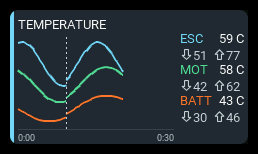
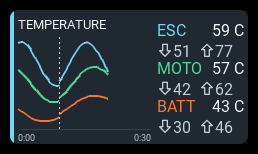
Adapt chart legend typography to widget size
Fit metric names, recorded values and extrema to the actual pixel dimensions, metric count and text widths, preserving a readable minimum and plot space. Recalculate on resize without replacing font callbacks or clearing history, and retain supported min/max markers at larger native font sizes.

diff --git a/docs/panels/chart.md b/docs/panels/chart.md
@@ -63,12 +63,20 @@ during compaction, but the service never joins across a known gap.
 
 All series occupy **one plot**, not separate mini-charts. Use multiple panels for
 separate charts. Supported spans are 2x1, 3x1, 4x1, 2x2, 3x2, 4x2, 3x3, 4x3,
-and 4x4; additional height goes to the plot rather than stretching the legend.
+and 4x4; additional height enlarges the plot and can allow larger legend text.
 The panel respects the App menu exclusion area.
-Metric names, values, and extrema use the same larger legend font at every span.
-When the panel is too short to fit all extrema rows (for example, three sources
-in a 2x1 panel), those rows are hidden rather than shrinking the text or
-overlapping the recorded values. Use a taller panel to show all readouts.
+Metric names, values, and extrema scale together with the widget's actual pixel
+dimensions, number of metrics, and readout widths. Larger fonts use at most half
+the available content width for the legend, leaving room for the plot. Text never
+shrinks below the small readable font; longer readouts can reduce the chosen size,
+and resizing recalculates it.
+The larger native fonts omit the arrow glyphs, so their min/max indicators use
+`v` / `^` instead.
+
+Larger text does not hide extrema that would fit at the minimum font. When the
+panel is too short even at that minimum (for example, three sources in a 2x1
+panel), extrema rows are hidden rather than shrinking the text or overlapping
+the recorded values. Use a taller panel to show all readouts.
 
 History lives in RAM and continues while the dashboard receives background
 callbacks. Geometry-only reflow preserves it. Reloading/restarting the dashboard,
